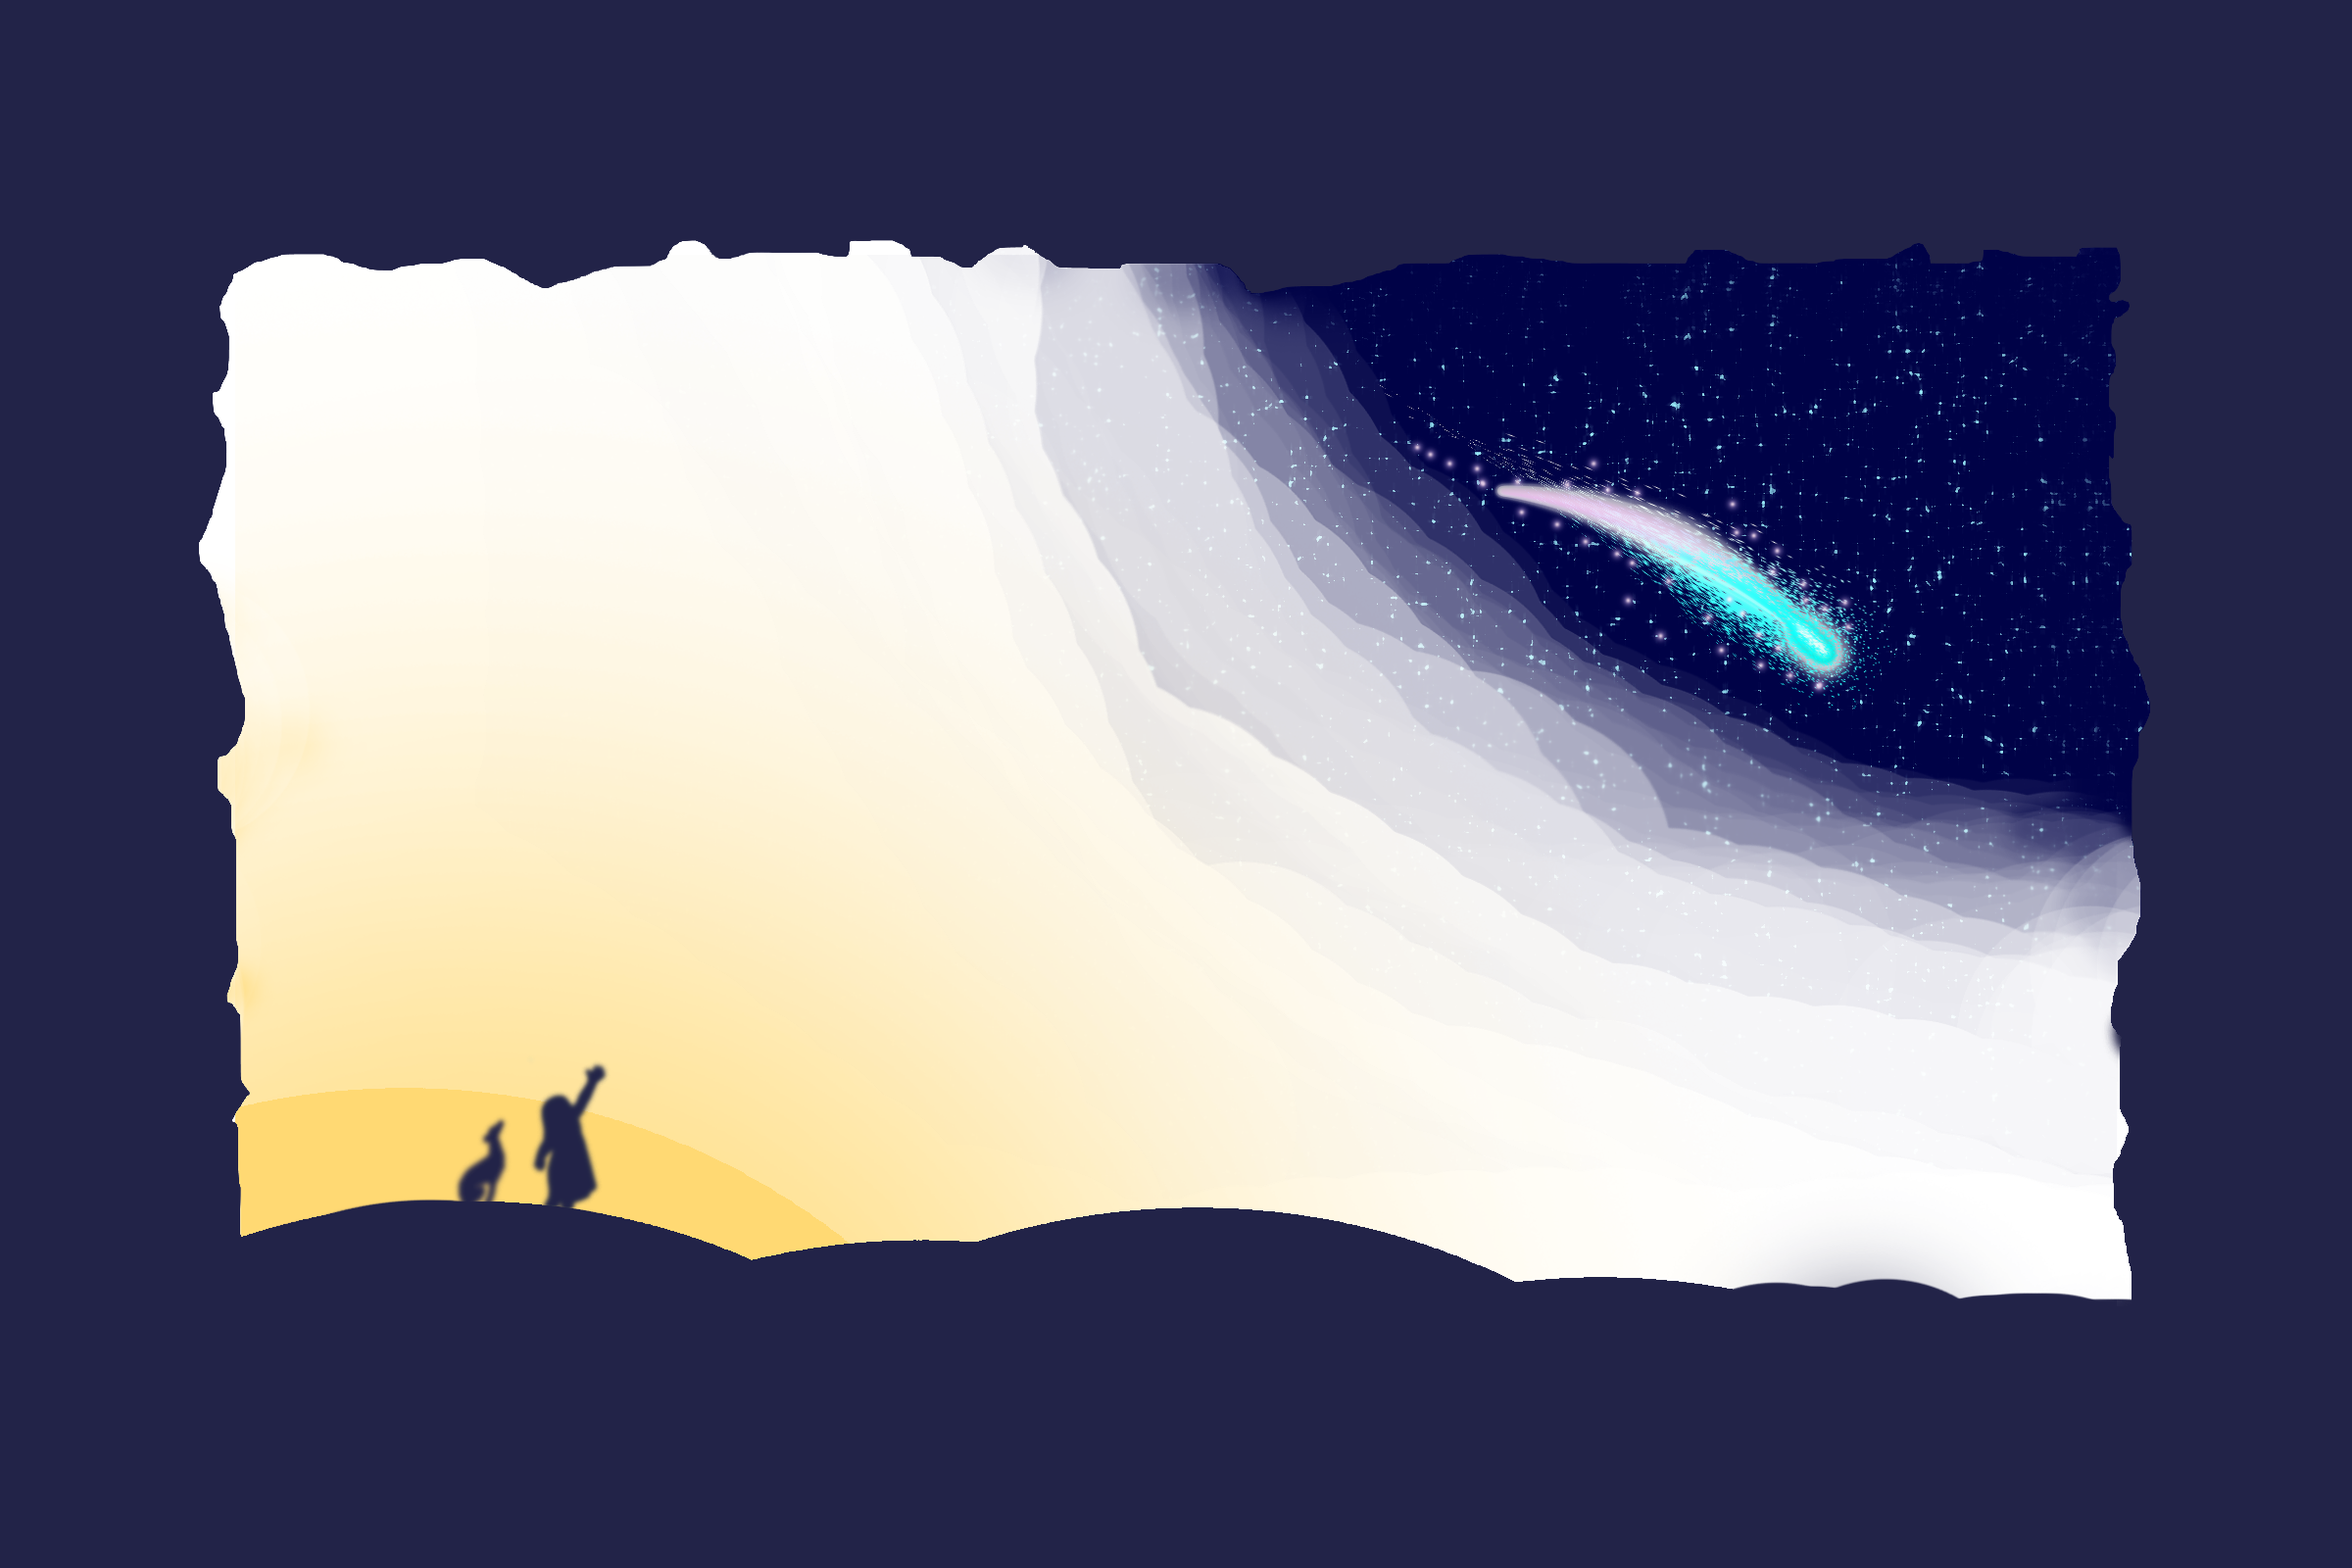
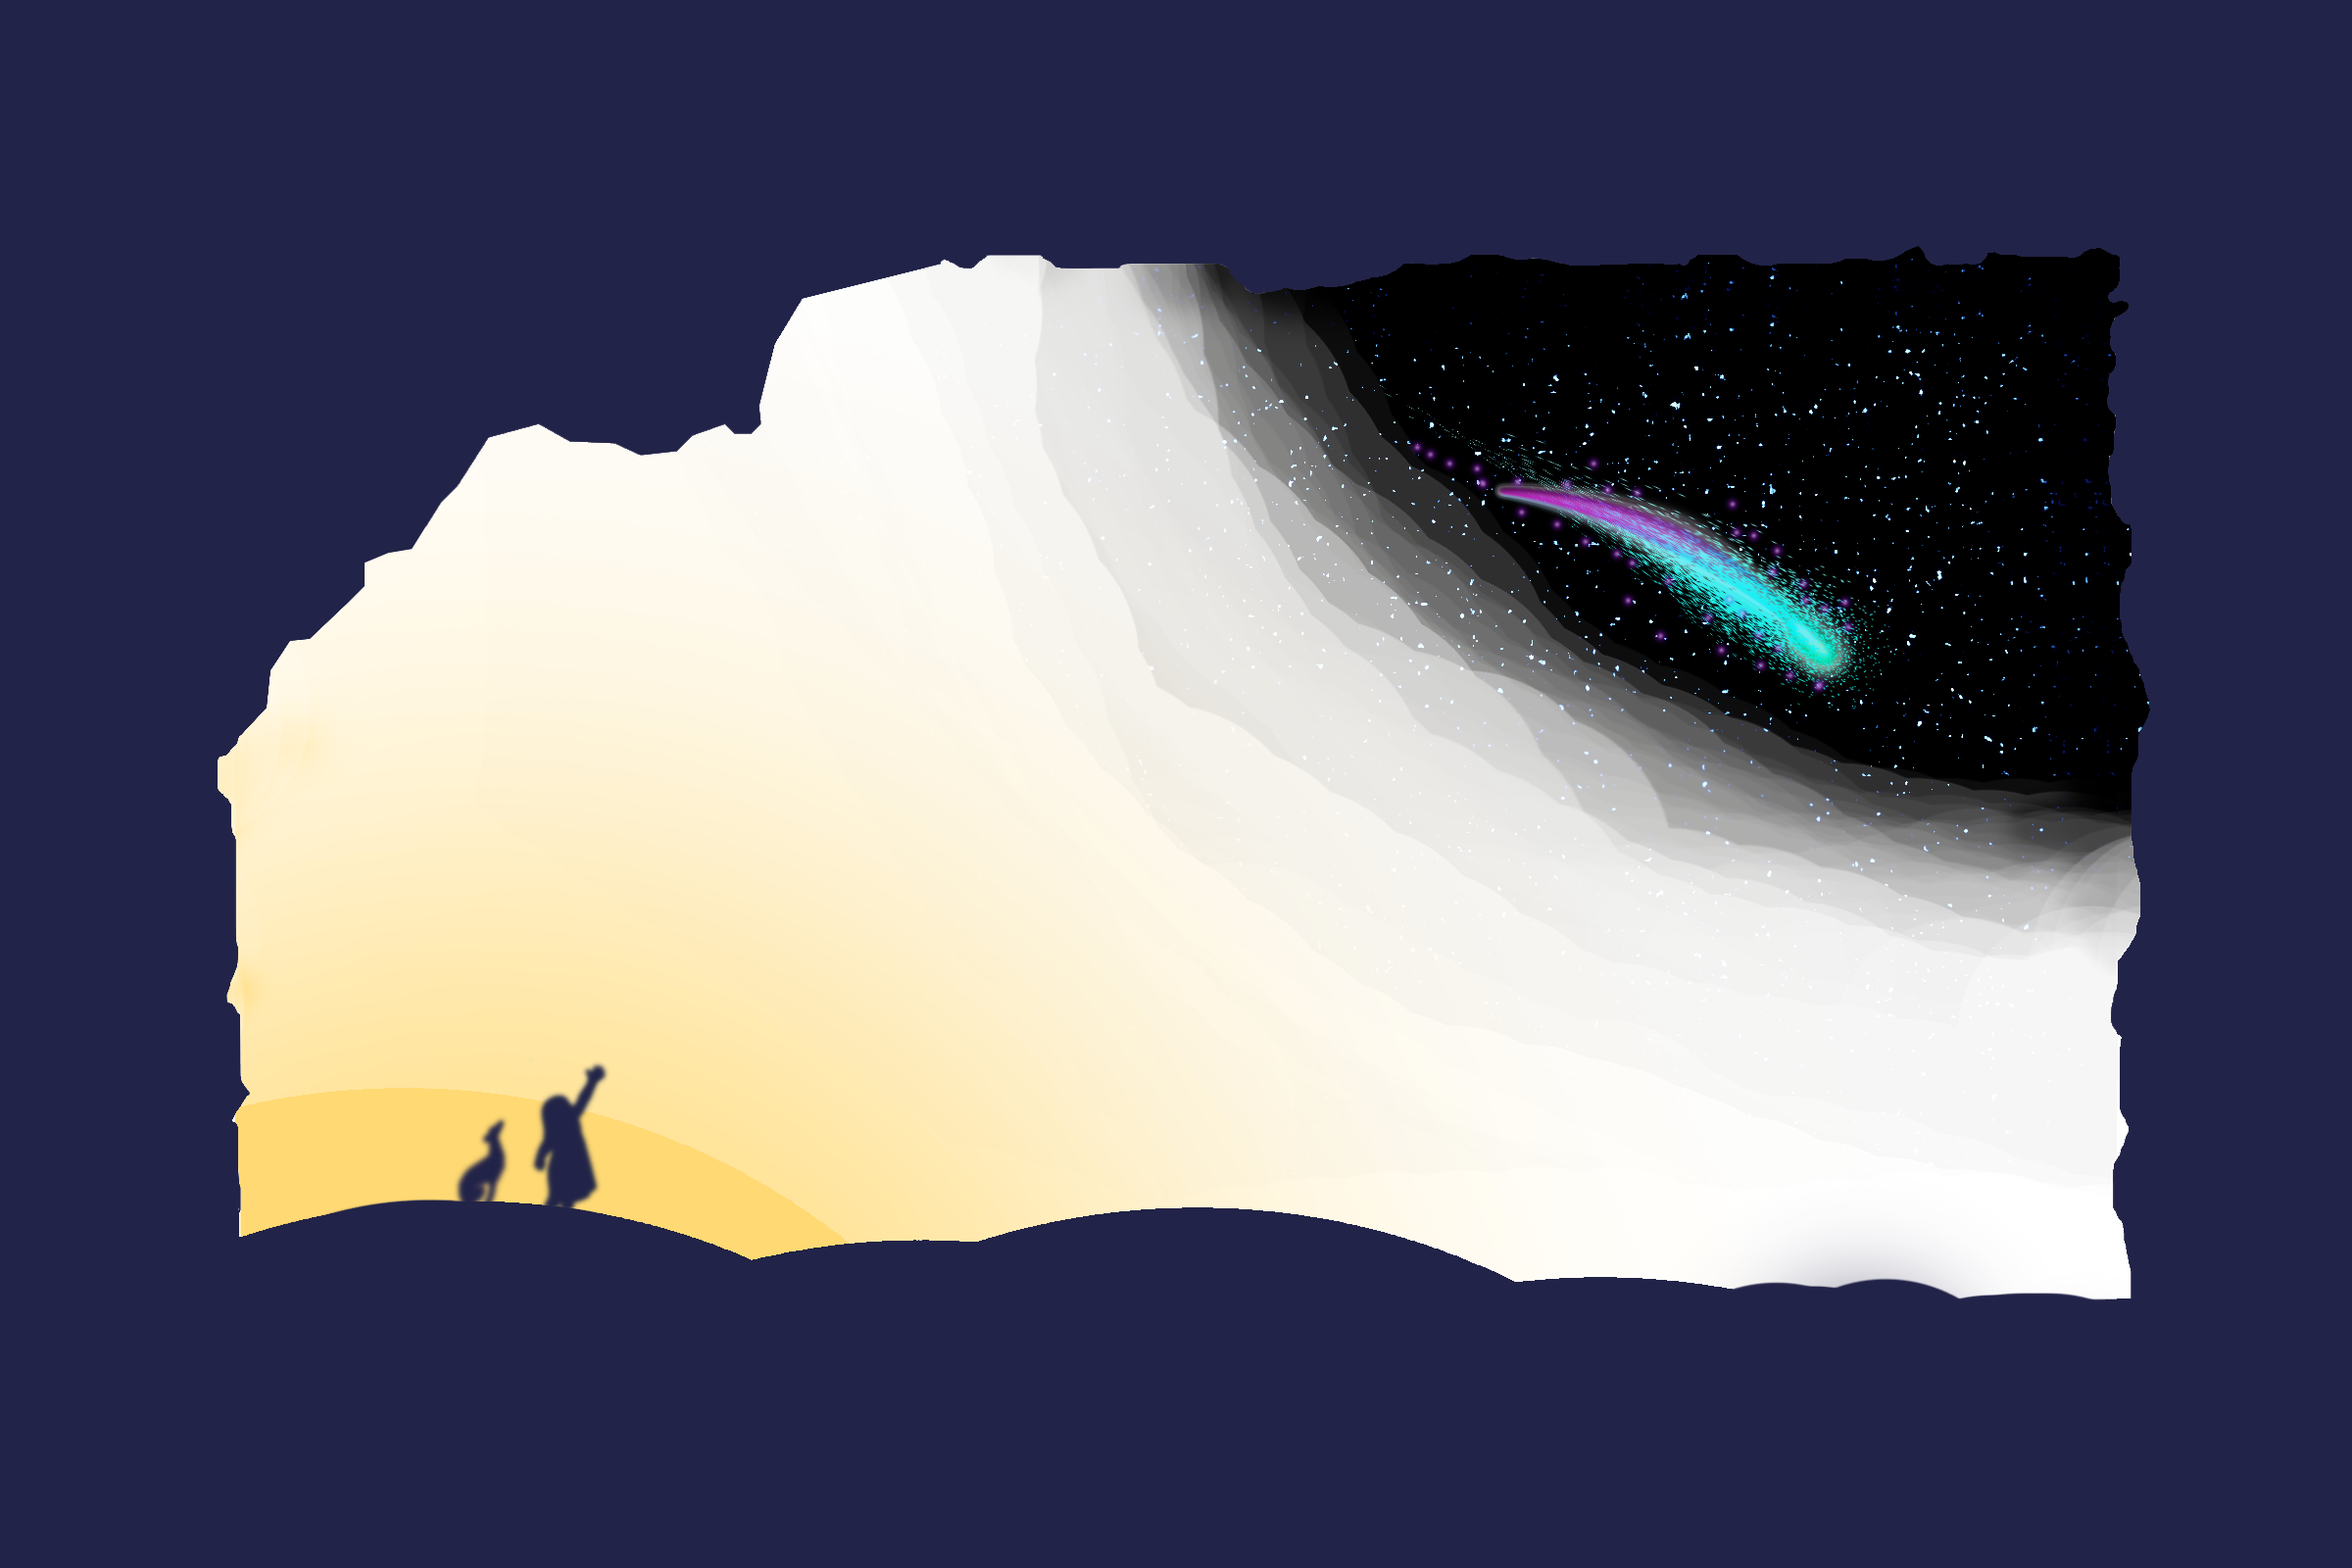
re

Changed region(s): [[0.5, 0.1562, 0.9375, 0.5625], [0.0625, 0.1562, 0.4062, 0.4688]]

diff --git a/javascript3.js b/javascript3.js
@@ -62,7 +62,6 @@ window.onload = init;
       event.preventDefault();
       if (logged) {
         var addedCard = users[userIdx].addCard(objective, time);
-        console.log(addedCard);
         return;
       }
       else {
@@ -178,9 +177,10 @@ function closureHandler(target) {
   }
   if (target.matches("#home a.close")) {
     if (logged) {
-      console.log(cardIdx);
+      cardIdx = findCardIdx(target.parentElement);
       if (users[userIdx].card[cardIdx].creator === users[userIdx].name) {
         users[userIdx].removeCard(cardIdx, true);
+        localStorageUsers(users, true);
         target.parentElement.outerHTML = "";
       }
     }
@@ -317,7 +317,6 @@ function loginHandler(target) {
       users.push(user);
       localStorageUsers(users, true);
       logged = true;
-      console.log(users[userIdx]);
       return;
     }
     else {
@@ -349,6 +348,7 @@ function scrollHandler(bool) {
     return;
   }
 }
+
 // VALIDATE EMAIL
 function validEmail(email, emailStr) {
   var filter = /^(([^<>()\[\]\\.,;:\s@"]+(\.[^<>()\[\]\\.,;:\s@"]+)*)|(".+"))@((\[[0-9]{1,3}\.[0-9]{1,3}\.[0-9]{1,3}\.[0-9]{1,3}])|(([a-zA-Z\-0-9]+\.)+[a-zA-Z]{2,}))$/;
@@ -454,13 +454,14 @@ function localStorageUsers(users, bool) {
   }
   else {
     try {
-      return localStorage.getItem("users");
+      return JSON.parse(localStorage.getItem("users"));
     }
     catch(error) {
       console.log("Error caught at LocalStorageUsers false: " + error);
     }
   }
 }
+
 // ITERATOR FOR USERS ARRAY
 function findUser(name) {
   for (var i=0; i<users.length; i++) {
@@ -495,6 +496,7 @@ function reloadUsers() {
   users[userIdx].display();
   return;
 }
+
 // CARDTOHTML
 function cardToHTML(objective, time) {
   var newCard = document.createElement("div");
@@ -538,6 +540,18 @@ function cardToHTML(objective, time) {
   return;
 }
 
+// FIND CARD INDEX
+function findCardIdx(target) {
+  var cards = document.querySelectorAll("#home .card");
+  for (var i=0; i<cards.length; i++) {
+    if (target === cards[i]) {
+      cardIdx = i;
+      break;
+    }
+  }
+  return cardIdx;
+}
+
 // RANDOM COLOR GEN
 function getRandomColor() {
   function c() {
@@ -564,7 +578,6 @@ class User {
     this.card.push(newCard);
     cardToHTML(objective, time);
     localStorageUsers(users, true);
-    console.log(users);
     return newCard;
   }
   removeCard(idx, boolean) {

diff --git a/CSS/style4.css b/CSS/style4.css
@@ -15,7 +15,6 @@ a {
   text-decoration: none;
   color: inherit;
 }
-
 body {
   background-image: -webkit-linear-gradient(60deg, rgb(247, 159, 87), rgb(196, 2, 205));
   background-image: -o-linear-gradient(60deg, rgb(247, 159, 87), rgb(196, 2, 205));
@@ -174,8 +173,8 @@ body {
 #wrapper #stars {
   width: 100%;
   height: 0;
-  padding-top: 133.5%;
-  background: url("../images/checkMobileStars2.png");
+  padding-top: 138%;
+  background: url("../images/checkMobileStarsFinal.png");
   background-position: left top;
   background-size: 100vw auto;
   background-repeat: no-repeat;
@@ -2088,14 +2087,37 @@ input:hover {
     display: block;
   }
 }
-@media (min-width: 600px) {
+@media (min-width: 900px) {
+  #wrapper > #bckgr {
+    background: url("../images/check2HugeBckgr.png");
+    background-size: 800px auto;
+    background-repeat: no-repeat;
+  }
+  #wrapper > #stars {
+    background: url("../images/check2HugeStars.png");
+    background-size: 800px auto;
+    background-repeat: no-repeat;
+    padding-top: 445px;
+  }
+  #wrapper > #darkBckgr {
+    display: block;
+    background-color: rgb(33, 35, 78);
+    position: absolute;
+    height: 100vh;
+    width: 100vw;
+    border: 1px solid red;
+    top: 0;
+    z-index: -2;
+  }
+}
+@media (min-width: 500px) and (max-width: 900px) {
   #wrapper > #bckgr {
     background: url("../images/checkDesktopBckgr2.png");
     background-size: contain;
     background-repeat: repeat;
   }
   #wrapper > #stars {
-    background: url("../images/checkDesktopStars2.png");
+    background: url("../images/checkDesktopStarsFinal.png");
     background-size: contain;
     background-repeat: no-repeat;
     padding-top: 56.25%;

diff --git a/javascript2.js b/javascript2.js
@@ -21,11 +21,6 @@ var cardIdx;
 var prevScrollpos = window.pageYOffset;
 window.onscroll = function() {
   var currentScrollPos = window.pageYOffset;
-  if (prevScrollpos > currentScrollPos) {
-    document.querySelector("#quickLoginDiv").style.top = "70px";
-  } else {
-    document.querySelector("#quickLoginDiv").style.top = "-50px";
-  }
   prevScrollpos = currentScrollPos;
 }
 
@@ -319,6 +314,7 @@ document.querySelector("#cardEditor").addEventListener("click", modifyCards, fal
 function deleteCard() {
   if (logged) {
     let idx = userUpdatedGlobal.card.indexOf(this.parentElement);
+    console.log(this.parentElement);
     userUpdatedGlobal.card.splice(idx, 1);
     saveUserState();
   }

diff --git a/index-4.html b/index-4.html
@@ -14,6 +14,7 @@
     <div id="bckgr"></div>
     <div id="stars"></div>
     <div id="hugeBckgr"></div>
+    <div id="darkBckgr"></div>
     <nav id="mainNav">
       <header>
         <h2>Navigation Menu</h2>
